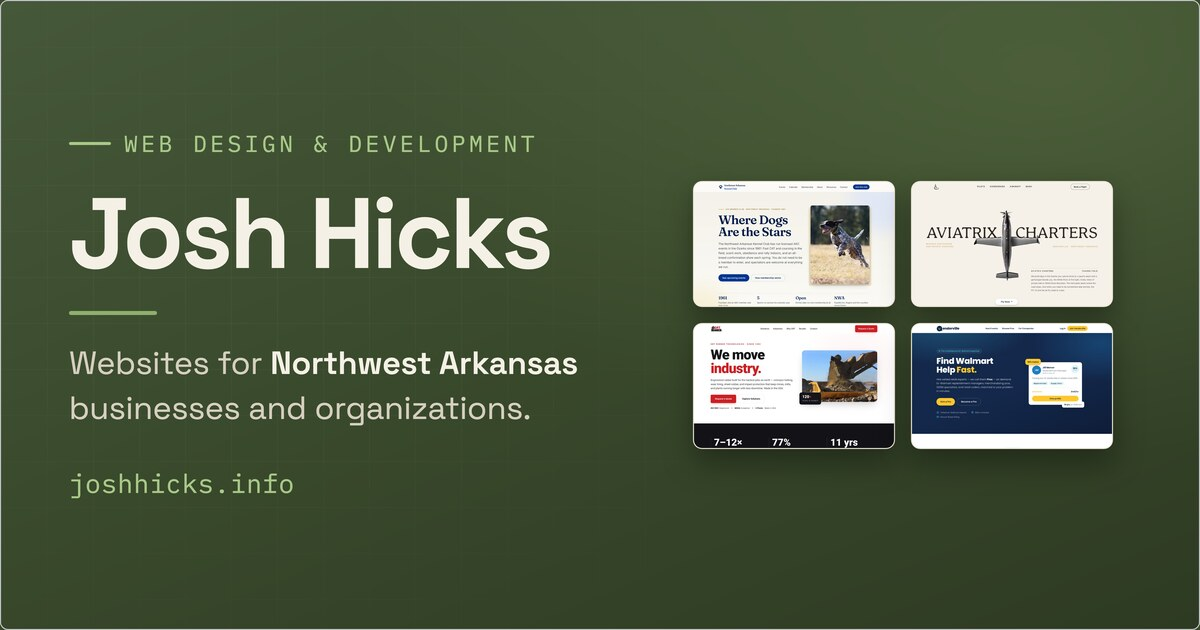
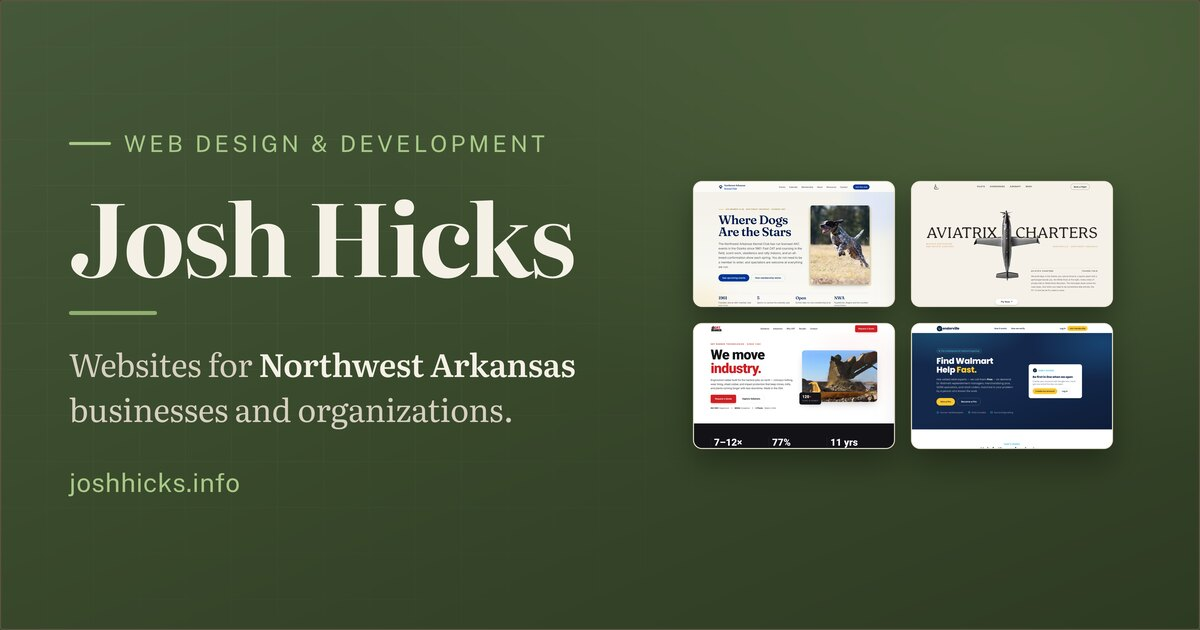
Portfolio: Vendorville is live on its own domain
vendor-ville.com replaces the Vercel preview link, and the chip changes
from Preview build to Live, so it now sits alongside Aviatrix as the
second client site on its own domain.

Screenshot retaken from the live site, which turned out to matter: the
hero no longer shows the sample expert profile card with the 96% match,
it shows an early-access card inviting visitors to create an account
before launch. The alt text described the old card, so it was rewritten
to say what is actually on screen.

The social card embeds all four screenshots, so it was regenerated too.
While regenerating it, its font declarations were still naming Space
Grotesk and IBM Plex Mono, which main.css no longer loads, so the card
had been silently rendering in a system fallback; it now uses the site
type tokens like everything else.

Worth noting for next time: curl cannot reach vendor-ville.com. It
resolves to Cloudflare, HTTPS resets during the handshake and plain HTTP
answers 503, which looks like an outage. A real browser gets 200 and the
correct page, so it is bot protection on the TLS fingerprint, not a
broken site.

diff --git a/portfolio/index.html b/portfolio/index.html
@@ -320,11 +320,11 @@
             </div>
           </a>
 
-          <a class="work-card fade-up" href="https://vendorville-site.vercel.app" target="_blank" rel="noopener">
+          <a class="work-card fade-up" href="https://vendor-ville.com" target="_blank" rel="noopener">
             <div class="work-shot">
               <img src="/assets/portfolio/vendorville.jpg" width="1200" height="750" loading="lazy" decoding="async"
-                   alt="Vendorville homepage, with the headline &quot;Find Walmart Help Fast&quot; beside a sample expert profile card showing a 96% match." />
-              <span class="work-status">Preview build</span>
+                   alt="Vendorville homepage, with the headline &quot;Find Walmart Help Fast&quot; beside an early-access card inviting visitors to create an account before launch." />
+              <span class="work-status work-status--live">Live</span>
             </div>
             <div class="work-body">
               <div class="work-name">Vendorville</div>
@@ -340,7 +340,7 @@
                 <span class="tag">Accounts</span>
                 <span class="tag">Billing</span>
               </div>
-              <div class="work-visit">vendorville-site.vercel.app →</div>
+              <div class="work-visit">vendor-ville.com →</div>
             </div>
           </a>
 

diff --git a/scripts/og/card.html b/scripts/og/card.html
@@ -14,7 +14,7 @@
     display: flex; align-items: center; gap: 54px;
     padding: 0 68px; box-sizing: border-box;
     position: relative; overflow: hidden;
-    font-family: 'Space Grotesk', system-ui, sans-serif;
+    font-family: var(--font-body);
   }
   /* faint grid texture */
   .card::after {
@@ -30,7 +30,7 @@
   .left { width: 570px; flex-shrink: 0; position: relative; z-index: 2; }
 
   .eyebrow {
-    font-family: 'IBM Plex Mono', monospace;
+    font-family: var(--font-ui);
     font-size: 23px; letter-spacing: 0.15em; text-transform: uppercase;
     color: #A8C888; display: flex; align-items: center; gap: 13px;
   }
@@ -55,7 +55,7 @@
   .tagline b { color: #F4F0E6; font-weight: 600; }
 
   .domain {
-    font-family: 'IBM Plex Mono', monospace;
+    font-family: var(--font-ui);
     font-size: 26px; color: #A8C888; margin-top: 32px; letter-spacing: 0.02em;
   }
 

diff --git a/docs/superpowers/specs/2026-09-04-portfolio-page-design.md b/docs/superpowers/specs/2026-09-04-portfolio-page-design.md
@@ -37,7 +37,7 @@ Four entries, in this fixed order:
 | 1 | NWA Kennel Club | nwakennelclub.vercel.app | Preview build | Structurally the same site a shelter needs — member org, events calendar, join/volunteer CTAs, animal photography |
 | 2 | Aviatrix Charters | aviatrixcharters.com | Live | Polish piece, live on its own domain |
 | 3 | GRT Rubber Technologies | grtrubba.vercel.app | Preview build | Serious corporate client, multi-plant manufacturer |
-| 4 | Vendorville | vendorville-site.vercel.app | Preview build | An application, not a brochure — accounts, dashboard, billing |
+| 4 | Vendorville | vendor-ville.com | Live | An application, not a brochure — accounts, dashboard, billing |
 
 Role line on all four: **Design & build**. Confirmed by Josh 2026-09-04.
 
@@ -108,3 +108,10 @@ Source of truth remains `~/Documents/deena/Helicopter Site/`, untouched.
 - `Portfolio` shows active styling on `/portfolio/`, not on other pages
 - Home grid still fills the viewport without scrolling
 - No remaining references to `testflight`
+
+## Update, 2026-09-16
+
+Vendorville moved to its own domain at vendor-ville.com, so its chip is now
+Live alongside Aviatrix. The screenshot was retaken from the live site: the
+sample expert profile card in the hero has been replaced with an early-access
+signup card, so the alt text was rewritten to match what is actually shown.
